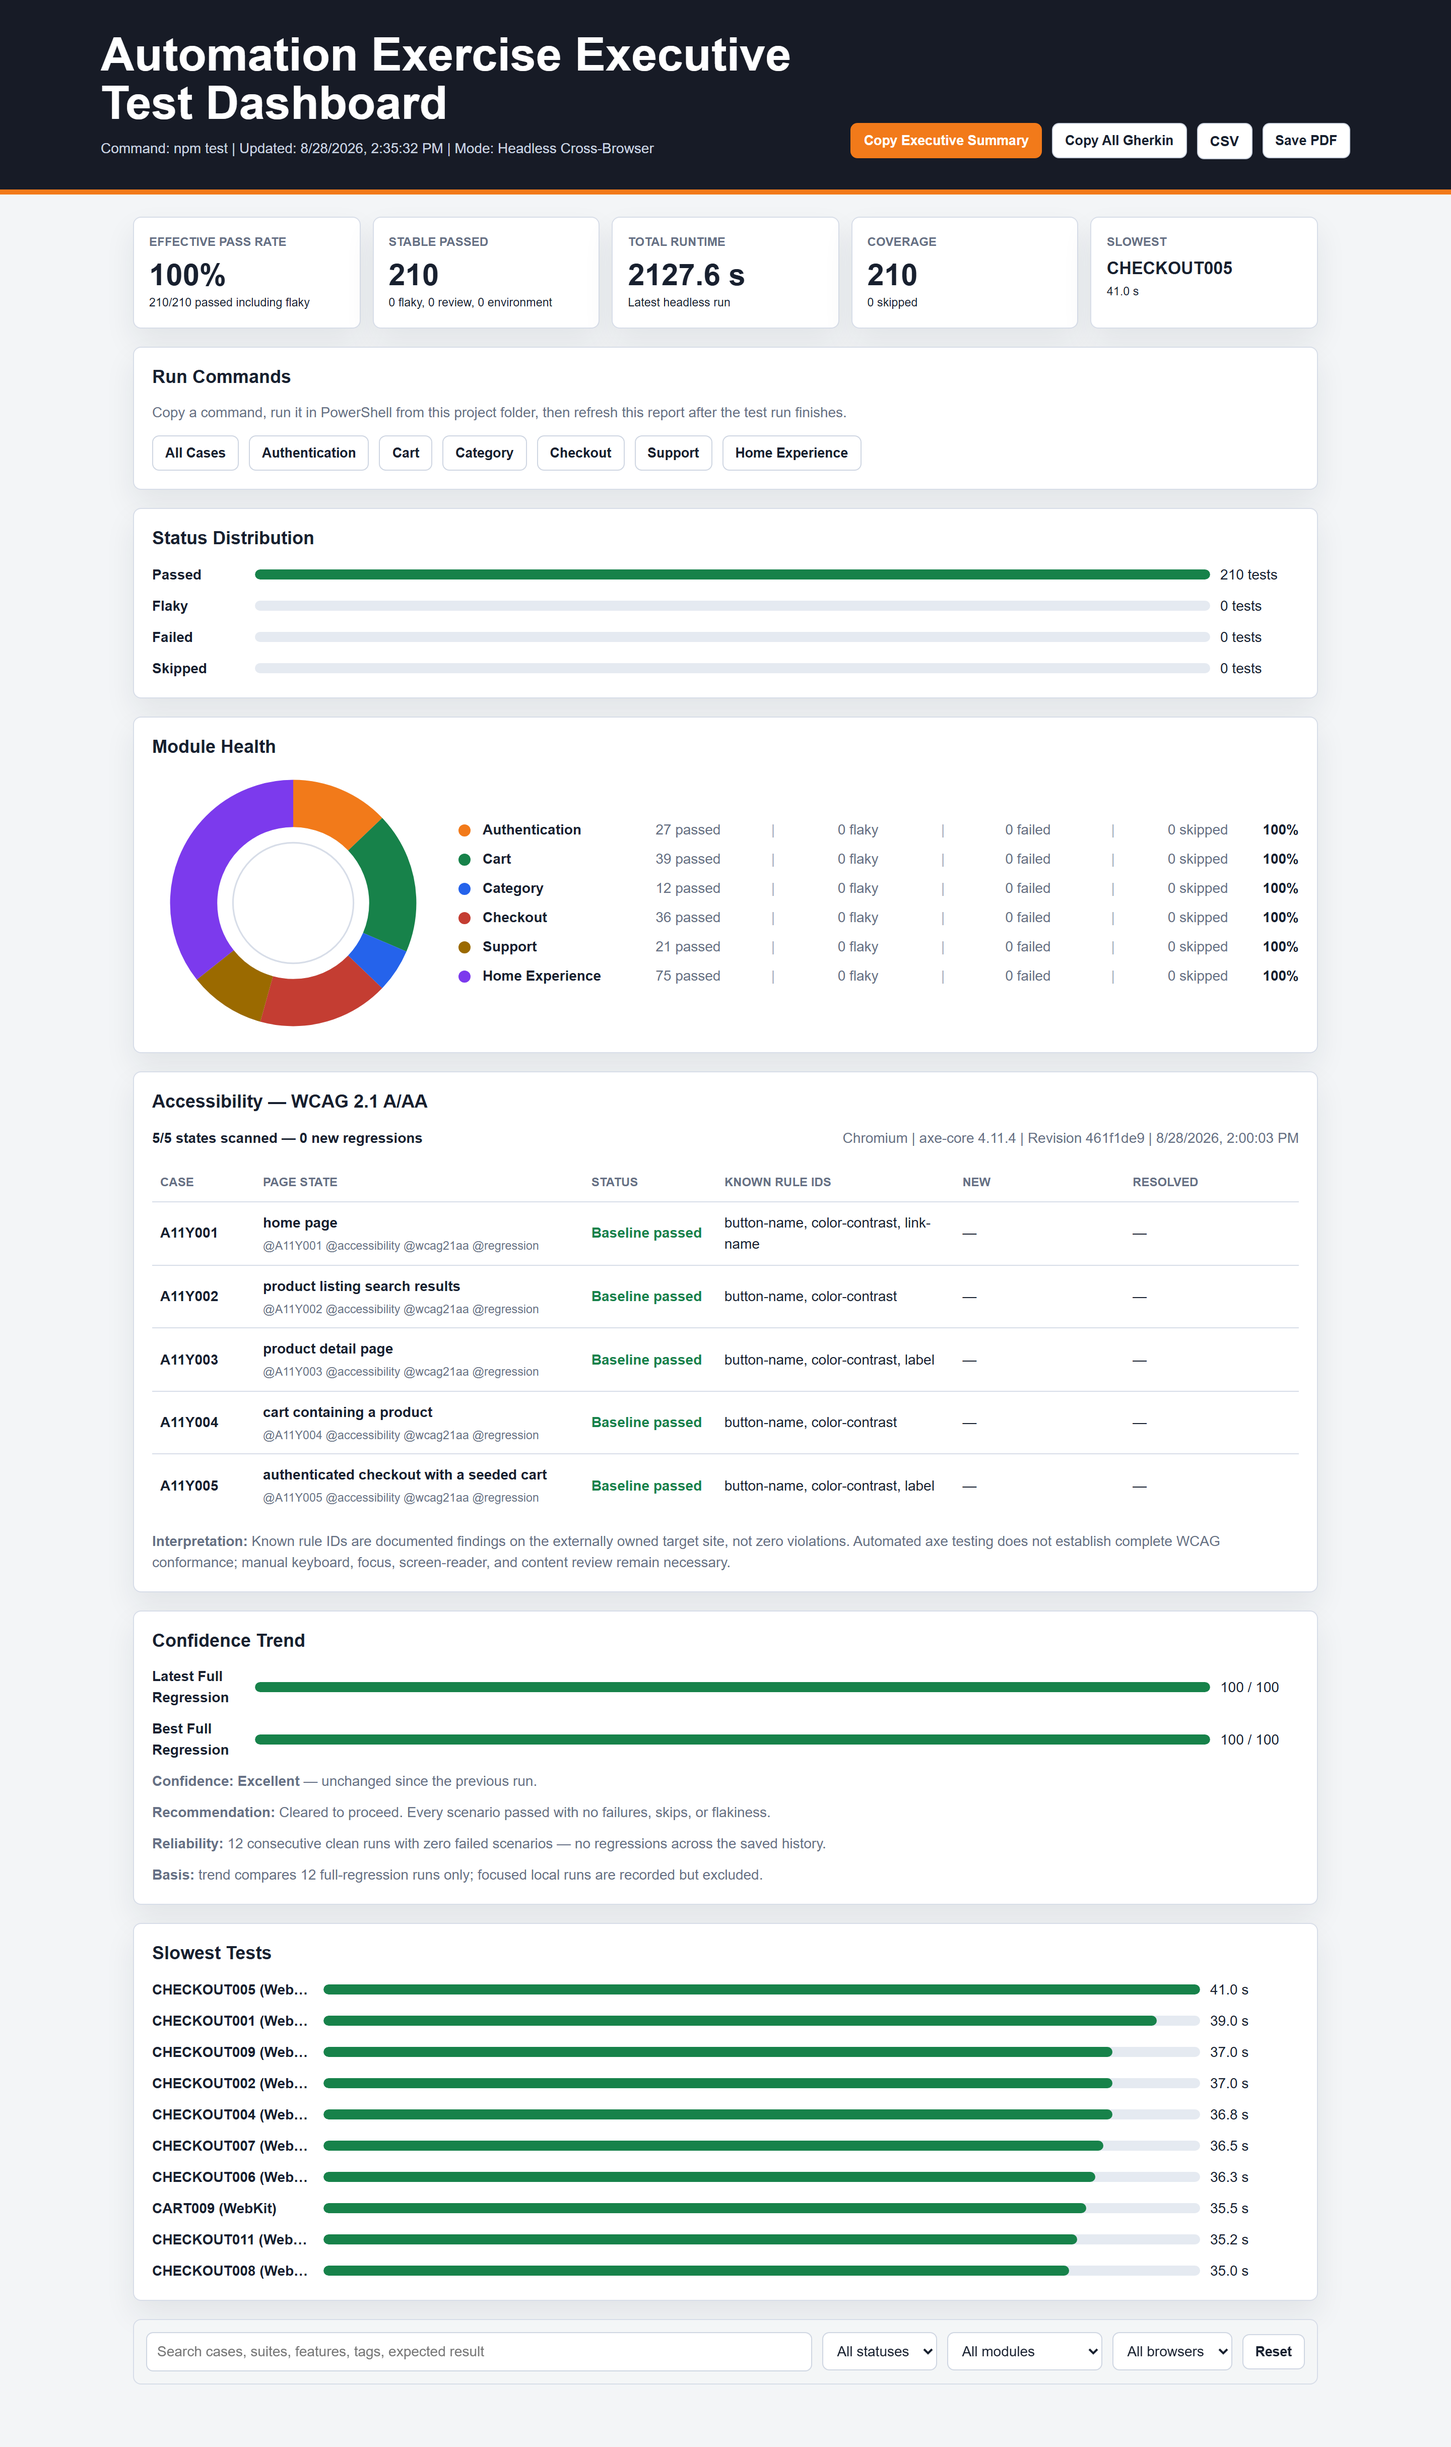
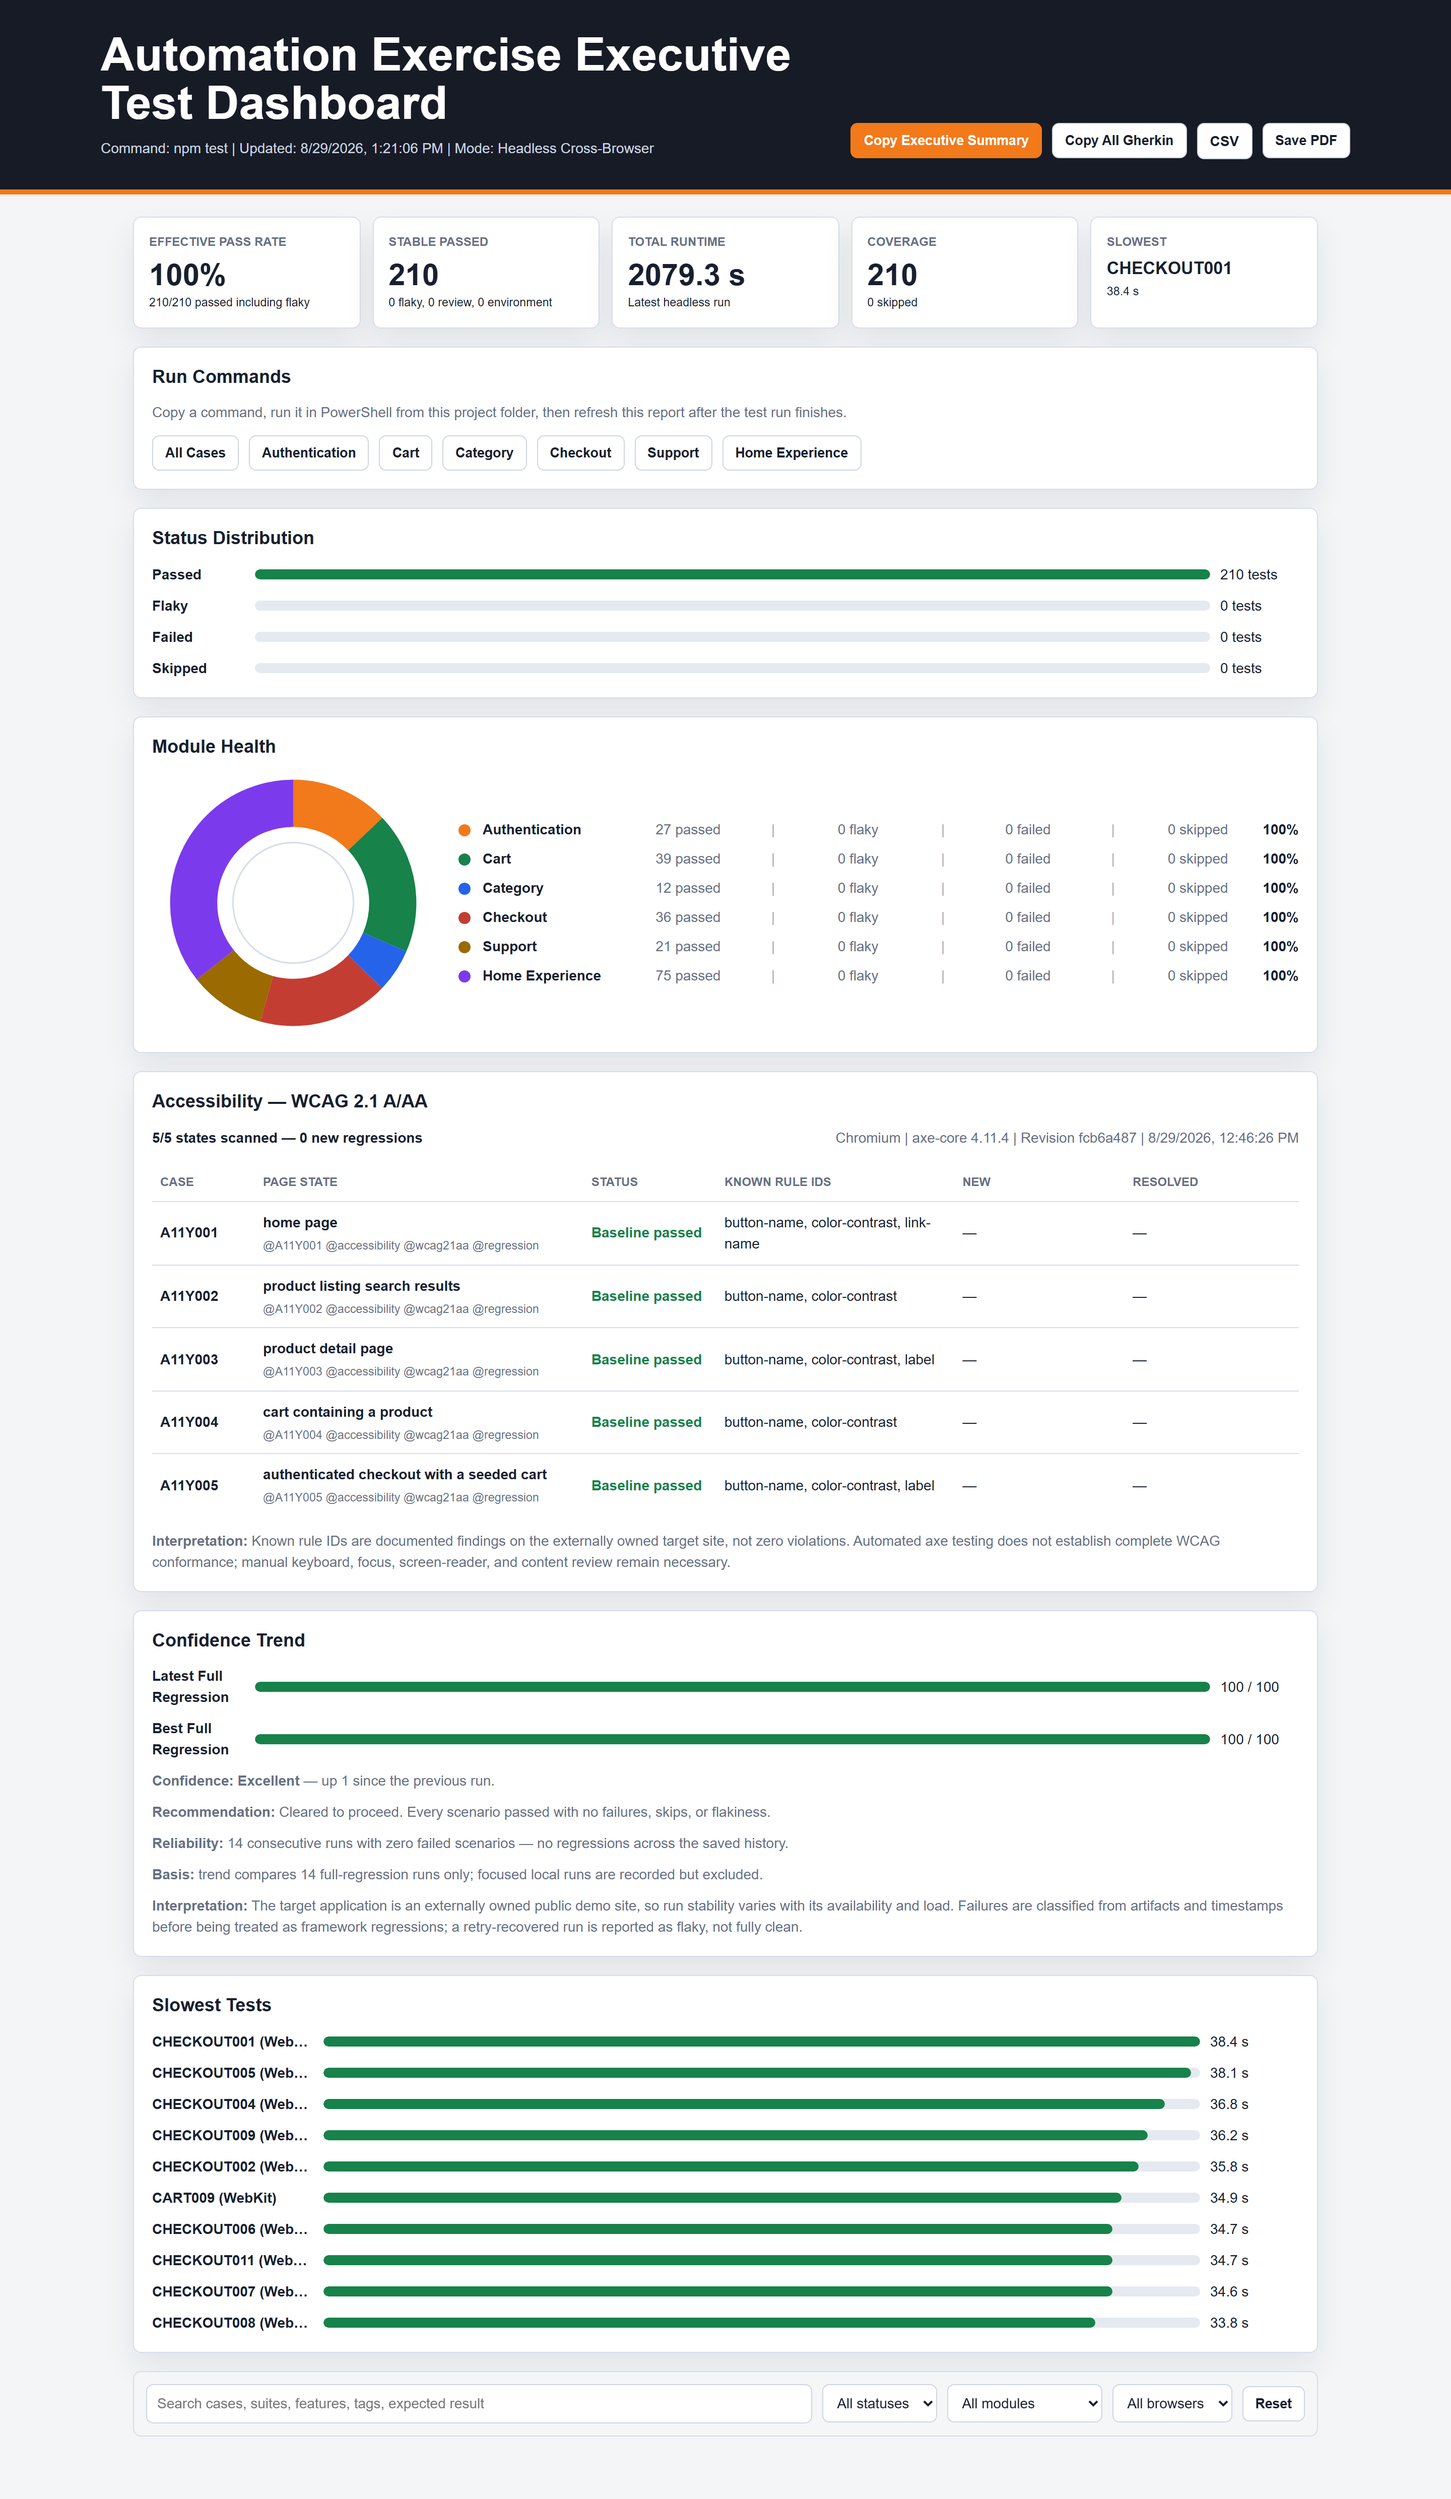
Decouple the fully-green citation from the live dashboard (#26)
AGENTS.md claimed "This is the run that published the live dashboard,
so its report is the one linked above" while citing run 33164032731 on
905f4f8. The live page is stamped Revision fcb6a487, from run
33246339547. Four regressions have published since that sentence was
written, so it has been untrue since 2026-08-28.

Bumping the run ID would fix the sentence only until the next merge.
PUBLISH_DASHBOARD is true, so every successful full regression on main
republishes and would break it again. The two facts are structurally
different: the fully-green citation is a fixed historical result, while
"which run published the dashboard" changes on its own schedule. So
state the relationship permanently instead of pinning it: the dashboard
reflects the most recent run rather than the cited one.

Cite the stronger run while here. 33246339547 is 210/210 in 34.7m with
zero flaky on fcb6a48, which is current main, replacing a citation two
commits behind. Its first attempt stopped at the demo-site preflight
before any test executed, so the results come from the second attempt;
that is recorded rather than smoothed over, because a preflight stop is
an environment outcome and not a suite result.

Recapture docs/assets/business-dashboard.png from the live page. The
committed image predates the Interpretation row added in #25, which is a
section gain rather than a moved number, so it meets the recapture bar.
Captured from the published page with the Playwright browser API
[…]

Changed region(s): [[0.0, 0.0311, 1.0, 0.964], [0.6562, 0.4664, 0.6875, 0.4975]]

diff --git a/AGENTS.md b/AGENTS.md
@@ -115,7 +115,7 @@ Last generated UI E2E suite snapshot: 70 scenarios. Cross-browser execution runs
 | Navigation | 3 |
 | Product Discovery | 12 |
 <!-- coverage:end -->
-- Last fully green verified run: 2026-08-28. Full-regression workflow run [`33164032731`](https://github.com/TugceAcir/automationexercise-playwright-portfolio/actions/runs/33164032731) on commit `905f4f8` produced 210/210 passed browser-scenario executions in 34.2m, with no failed, no skipped and no flaky results. The workflow makes two retries available and none were used, so no scenario required more than one attempt. This is the run that published the live dashboard, so its report is the one linked above. The workflow run log and its uploaded Playwright report are the verification sources for this run. New failed runs should be recorded with `npm run triage:failures` classification rather than treated as equivalent framework regressions.
+- Last fully green verified run: 2026-08-29. Full-regression workflow run [`33246339547`](https://github.com/TugceAcir/automationexercise-playwright-portfolio/actions/runs/33246339547) on commit `fcb6a48` produced 210/210 passed browser-scenario executions in 34.7m, with no failed, no skipped and no flaky results. The workflow makes two retries available and none were used, so no scenario required more than one attempt. That run's first attempt stopped at the demo-site preflight before any test executed, so the cited results come from its second attempt; a preflight stop is an environment outcome and is not a suite result. The workflow run log and its uploaded Playwright report are the verification sources for this run. The live dashboard is republished by every successful full regression on `main`, so it reflects the most recent run rather than this one. New failed runs should be recorded with `npm run triage:failures` classification rather than treated as equivalent framework regressions.
 - Successful full-regression runs on `main` publish `business-report/` to GitHub Pages when the `PUBLISH_DASHBOARD` repository variable is `true`. Publishing is attempted on pushes to `main` and manual dispatch only, never on the schedule.
 - Pushes and pull requests run the focused Ubuntu `@smoke|@session` gate with retries; full 210 browser-scenario regression runs on `main`, schedule, and manual dispatch.
 - A weekly or manually dispatched compatibility workflow runs `@smoke|@session` on Windows and macOS with environment metadata recorded in the job log.
